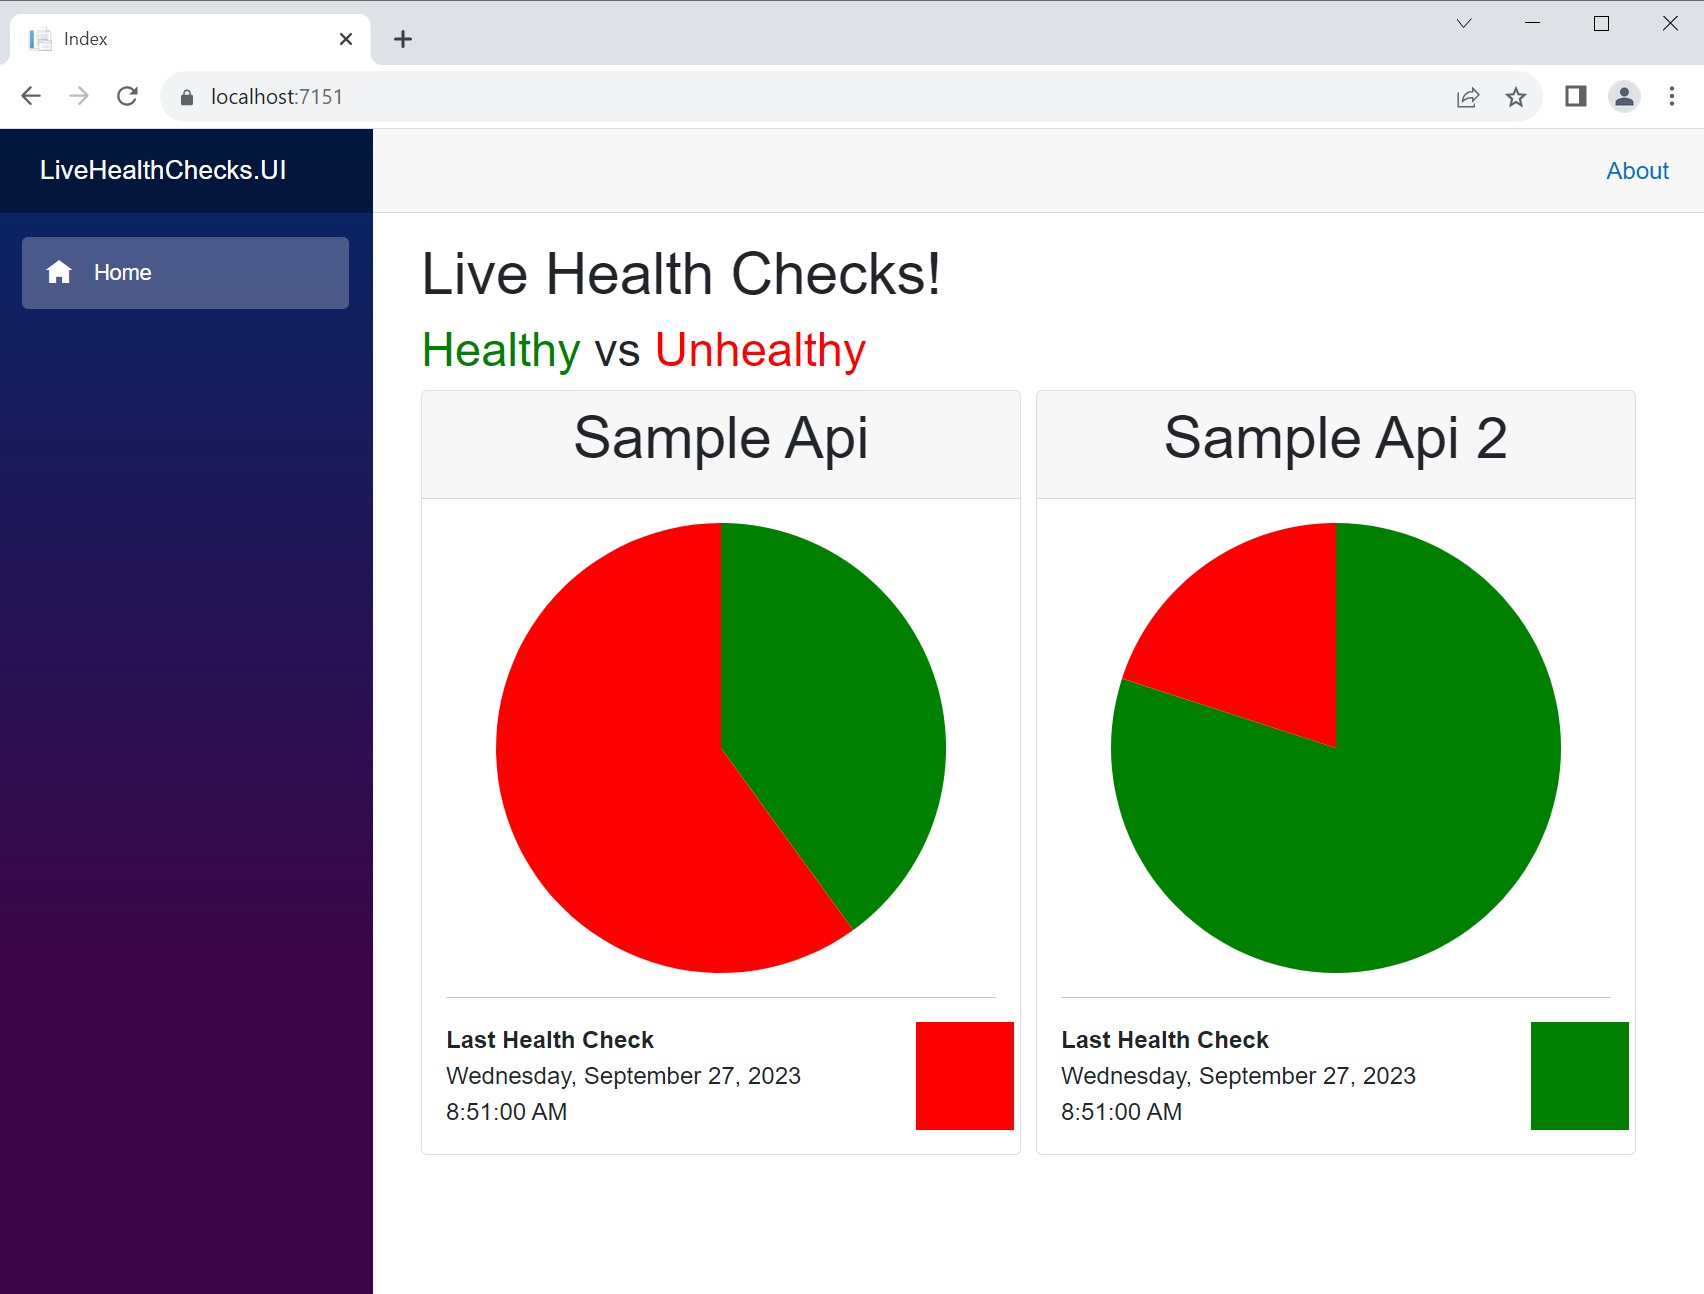
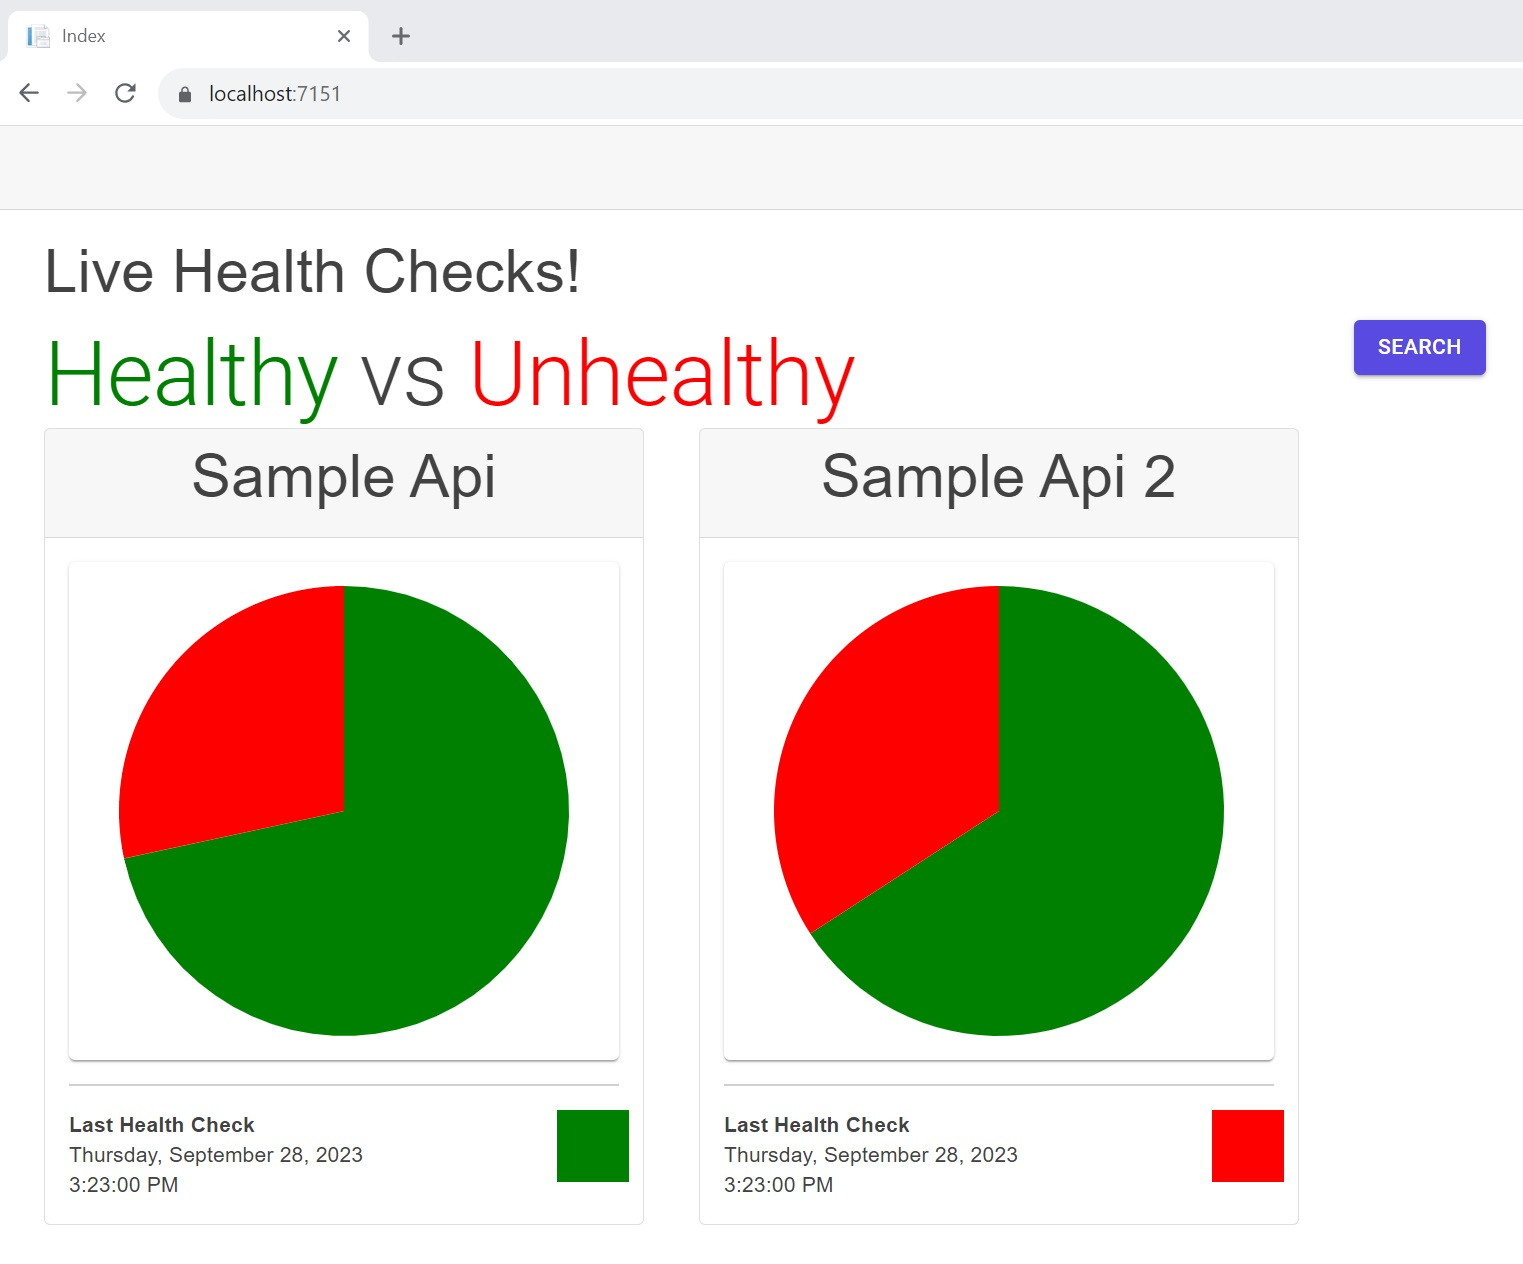
added search functionality.

diff --git a/LiveHealthChecks.UI/wwwroot/index.html b/LiveHealthChecks.UI/wwwroot/index.html
@@ -7,6 +7,8 @@
     <title>LiveHealthChecks.UI</title>
     <base href="/" />
     <link href="css/bootstrap/bootstrap.min.css" rel="stylesheet" />
+    <link href="https://fonts.googleapis.com/css?family=Roboto:300,400,500,700&display=swap" rel="stylesheet" />
+    <link href="_content/MudBlazor/MudBlazor.min.css" rel="stylesheet" />
     <link href="css/app.css" rel="stylesheet" />
     <link href="LiveHealthChecks.UI.styles.css" rel="stylesheet" />
 </head>
@@ -20,6 +22,7 @@
         <a class="dismiss">🗙</a>
     </div>
     <script src="_framework/blazor.webassembly.js"></script>
+    <script src="_content/MudBlazor/MudBlazor.min.js"></script>
 </body>
 
 </html>

diff --git a/LiveHealthChecks.UI/Program.cs b/LiveHealthChecks.UI/Program.cs
@@ -3,6 +3,7 @@ using LiveHealthChecks.UI;
 using LiveHealthChecks.UI.Repository;
 using Microsoft.AspNetCore.Components.Web;
 using Microsoft.AspNetCore.Components.WebAssembly.Hosting;
+using MudBlazor.Services;
 
 var builder = WebAssemblyHostBuilder.CreateDefault(args);
 builder.RootComponents.Add<App>("#app");
@@ -10,6 +11,8 @@ builder.RootComponents.Add<HeadOutlet>("head::after");
 
 builder.Services.AddScoped(sp => new HttpClient { BaseAddress = new Uri(builder.HostEnvironment.BaseAddress) });
 builder.Services.AddBlazoredLocalStorage();
+builder.Services.AddMudServices();
+
 builder.Services.AddScoped<IMyHealthChecksRepository, MyHealthChecksRepository>();
 
 await builder.Build().RunAsync();
